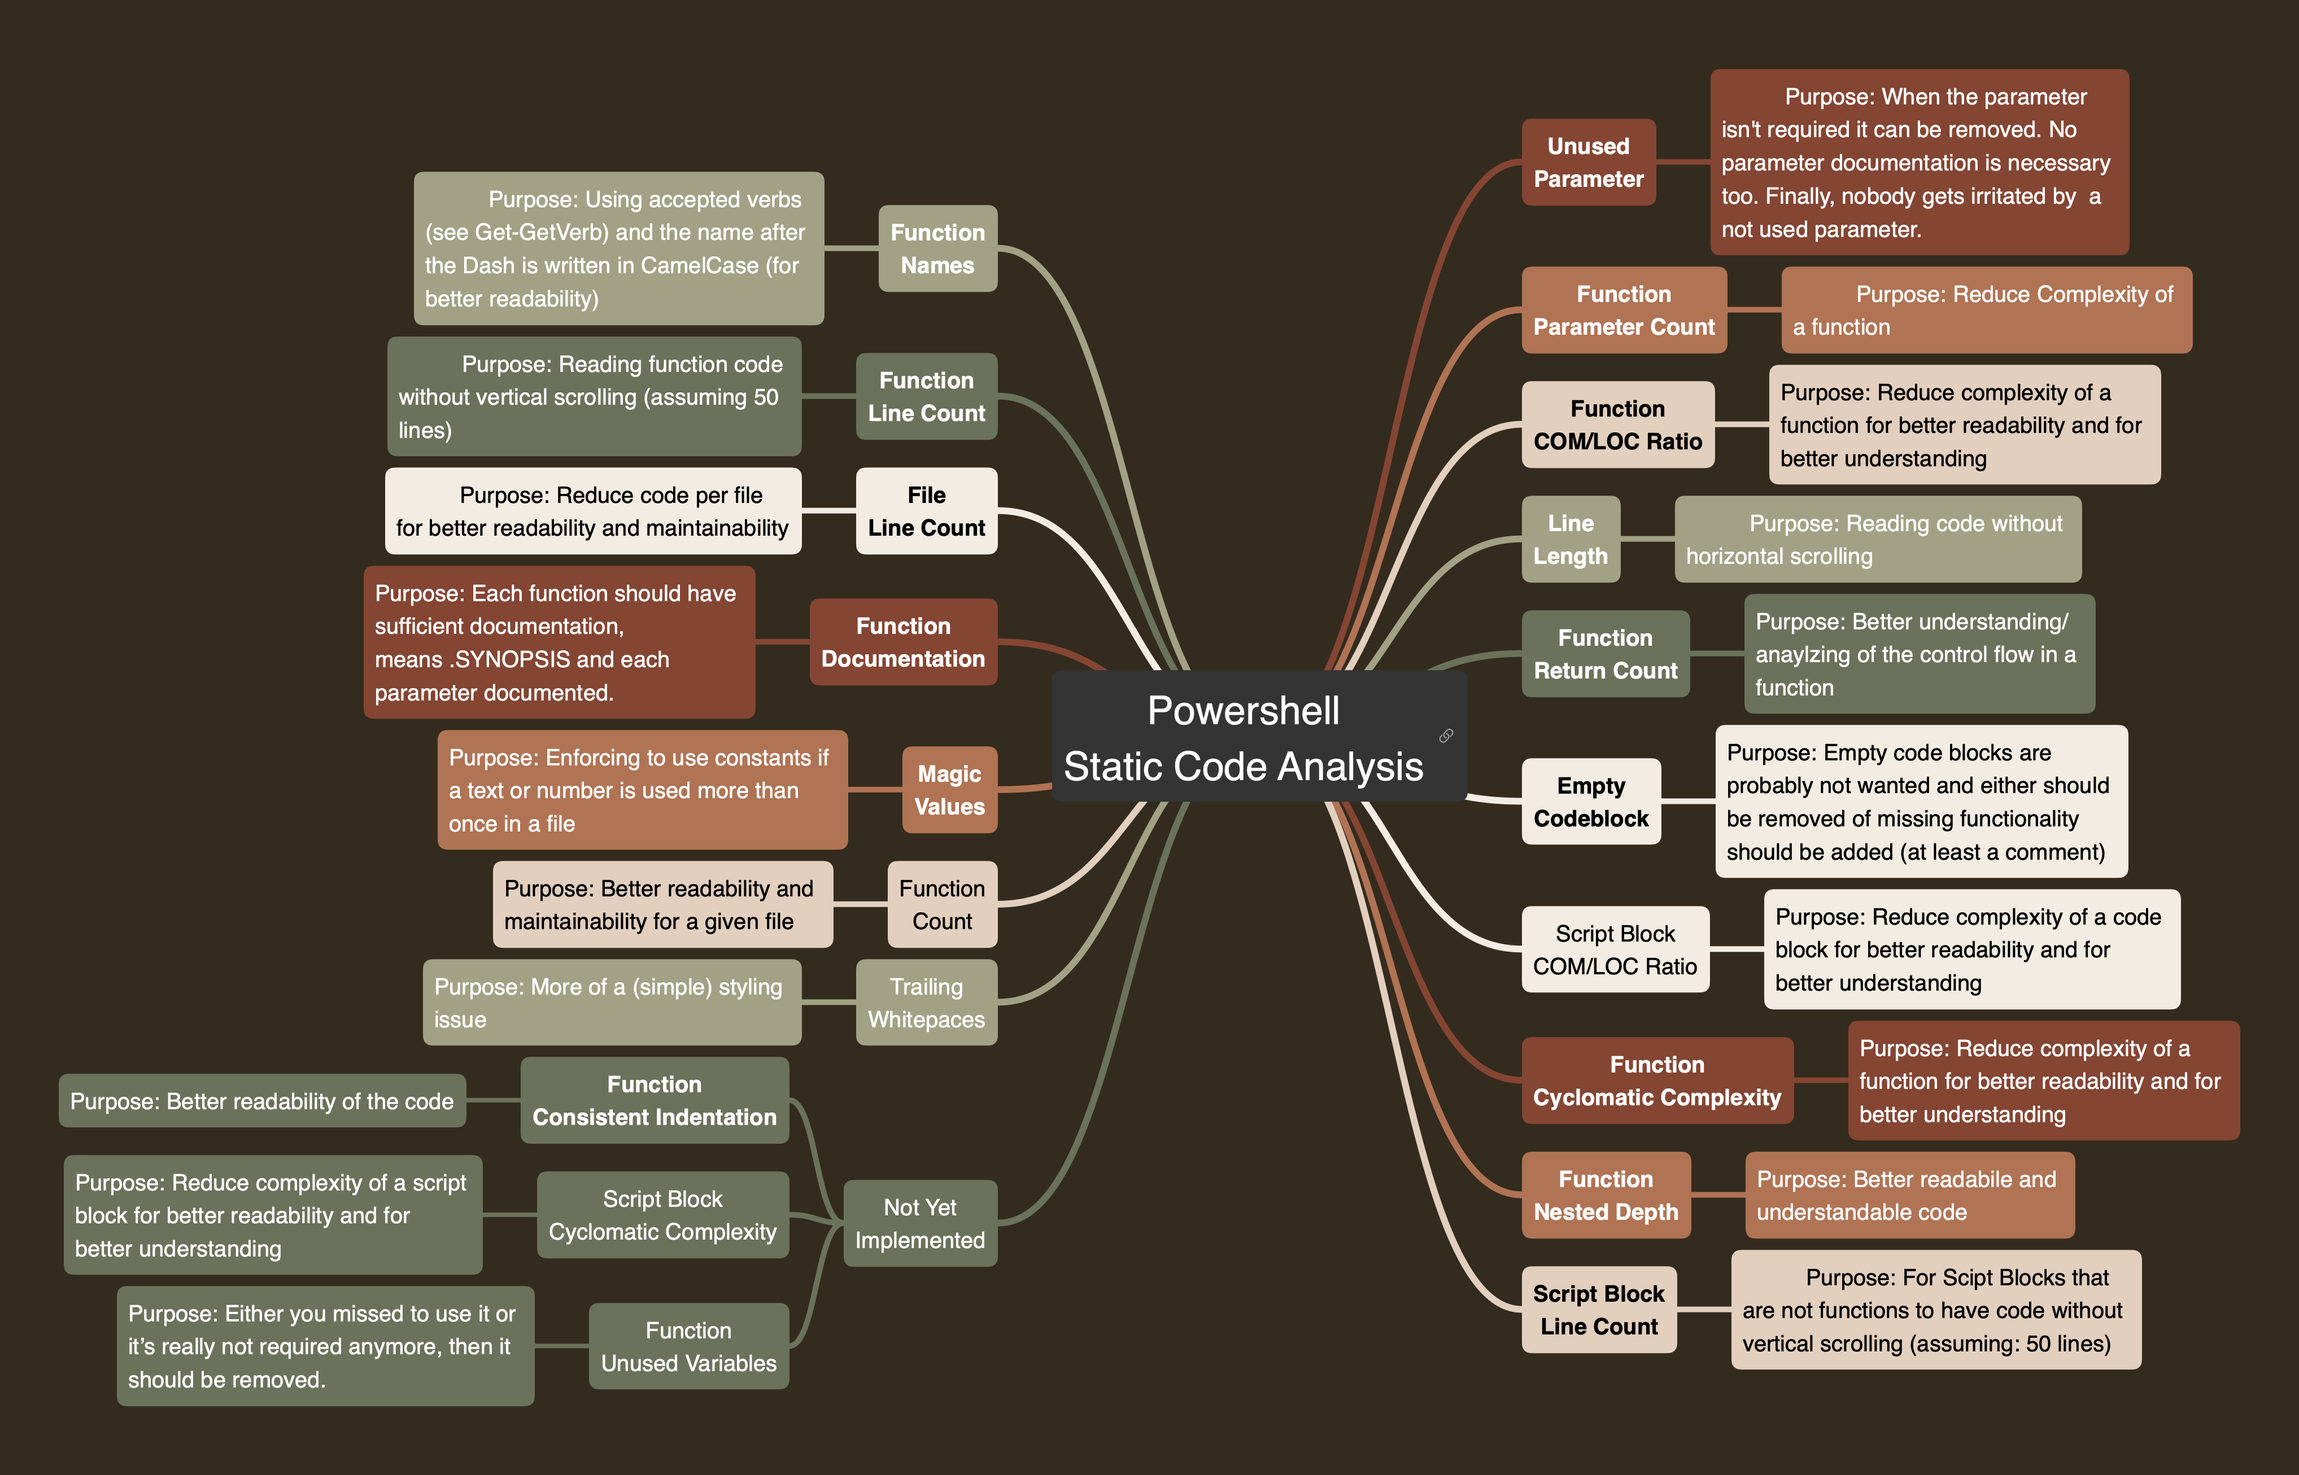
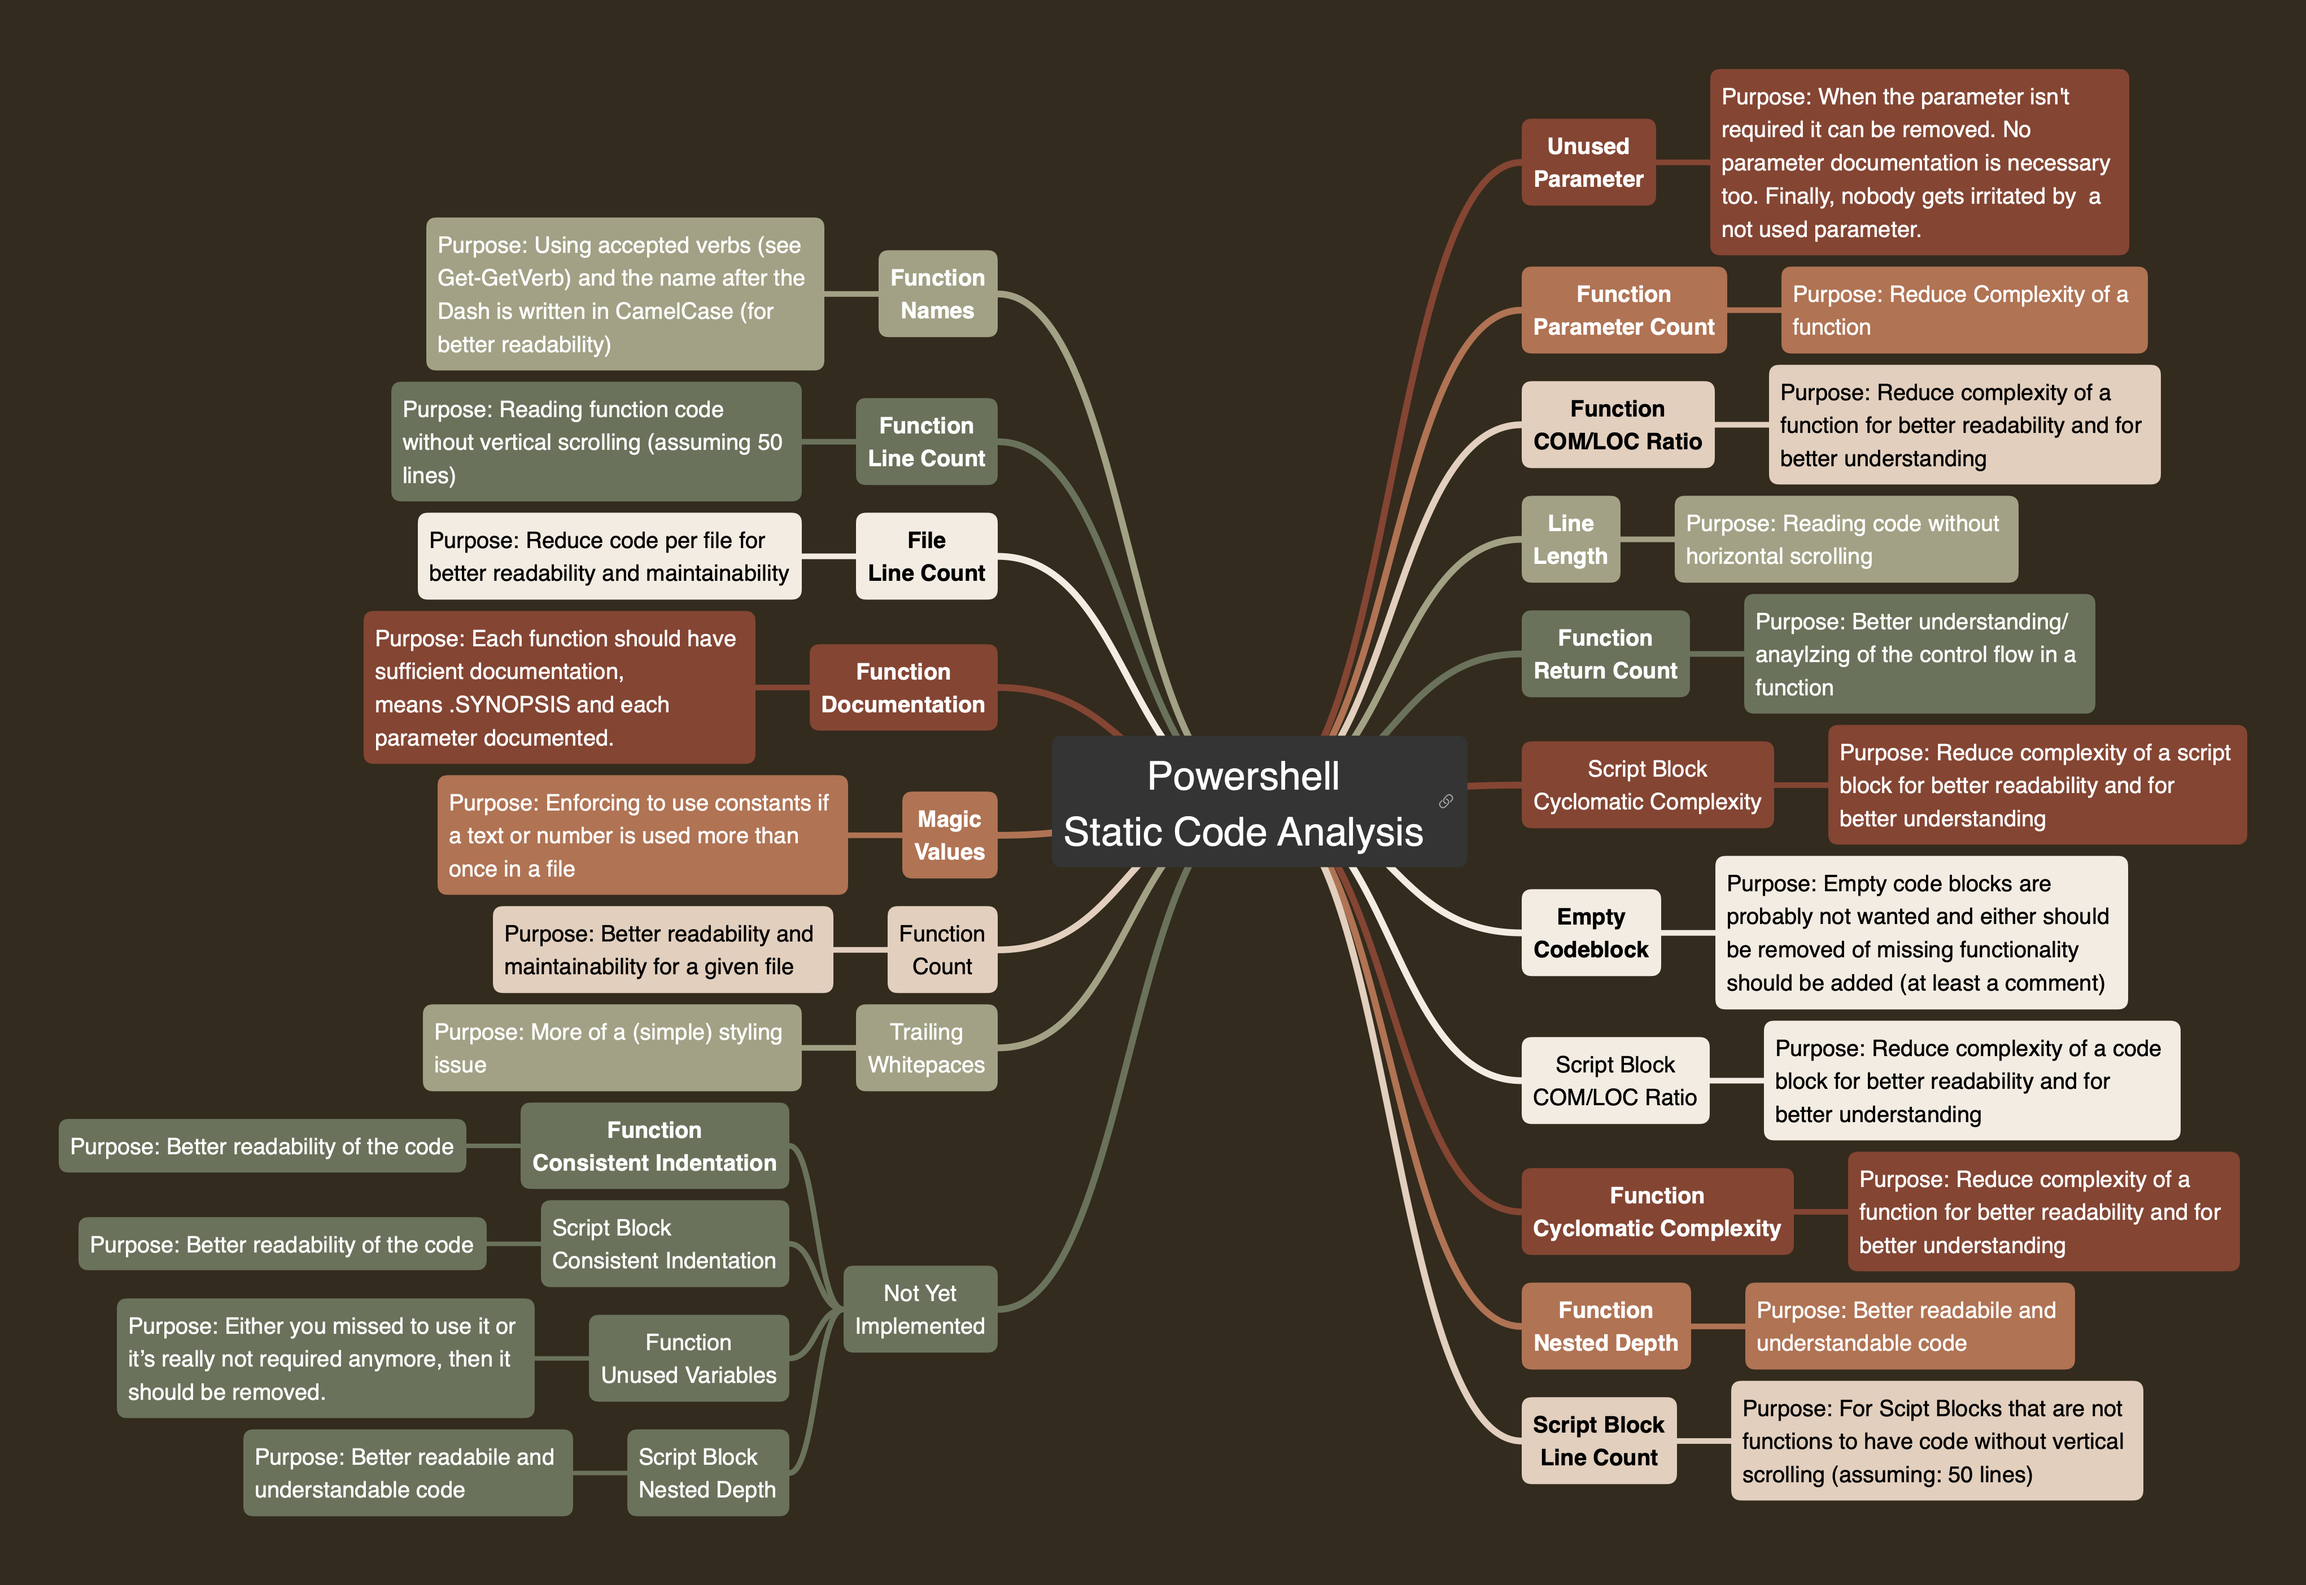
deploy: b2dde4d0823b892bb1fc88203be099f79d95d960

Changed region(s): [[0.0, 0.031, 0.9983, 0.961], [0.4679, 0.713, 0.4991, 0.775]]

diff --git a/static-code-analysis/index.html b/static-code-analysis/index.html
@@ -508,6 +508,15 @@
 </li>
       
         <li class="md-nav__item">
+  <a href="#checking-for-script-block-cyclomatic-complexity" class="md-nav__link">
+    <span class="md-ellipsis">
+      Checking for script block cyclomatic complexity
+    </span>
+  </a>
+  
+</li>
+      
+        <li class="md-nav__item">
   <a href="#checking-for-script-block-comloc-ratio" class="md-nav__link">
     <span class="md-ellipsis">
       Checking for script block COM/LOC ratio
@@ -817,6 +826,15 @@
 </li>
       
         <li class="md-nav__item">
+  <a href="#checking-for-script-block-cyclomatic-complexity" class="md-nav__link">
+    <span class="md-ellipsis">
+      Checking for script block cyclomatic complexity
+    </span>
+  </a>
+  
+</li>
+      
+        <li class="md-nav__item">
   <a href="#checking-for-script-block-comloc-ratio" class="md-nav__link">
     <span class="md-ellipsis">
       Checking for script block COM/LOC ratio
@@ -1084,21 +1102,40 @@ You can change it like following:</p>
 <p>It does count <code>if</code>, <code>elseif</code>, <code>while</code> (with condition to enter loop), <code>for</code> (with condition),
 <code>switch</code> (cases with a break), <code>trap</code> statements and logical operators (and, or, xor). Each
 of them count one.</p>
-<h2 id="checking-for-script-block-comloc-ratio">Checking for script block COM/LOC ratio</h2>
-<p>The default ratio is 0.25 and default minimum lines are 3. You can change it like following:</p>
-<p><div class="language-powershell highlight"><pre><span></span><code><span id="__span-14-1"><a id="__codelineno-14-1" name="__codelineno-14-1" href="#__codelineno-14-1"></a><span class="nb">Initialize-AnalyseTask</span> <span class="p">{</span>
+<h2 id="checking-for-script-block-cyclomatic-complexity">Checking for script block cyclomatic complexity</h2>
+<p>The default is 10. You can change it like following:</p>
+<div class="language-powershell highlight"><pre><span></span><code><span id="__span-14-1"><a id="__codelineno-14-1" name="__codelineno-14-1" href="#__codelineno-14-1"></a><span class="nb">Initialize-AnalyseTask</span> <span class="p">{</span>
 </span><span id="__span-14-2"><a id="__codelineno-14-2" name="__codelineno-14-2" href="#__codelineno-14-2"></a>    <span class="k">param</span> <span class="p">(</span><span class="no">[hashtable]</span> <span class="nv">$TaskData</span><span class="p">)</span>
 </span><span id="__span-14-3"><a id="__codelineno-14-3" name="__codelineno-14-3" href="#__codelineno-14-3"></a>    <span class="nv">$TaskData</span><span class="p">.</span><span class="n">analyseConfiguration</span> <span class="p">=</span> <span class="p">@{</span>
 </span><span id="__span-14-4"><a id="__codelineno-14-4" name="__codelineno-14-4" href="#__codelineno-14-4"></a>        <span class="n">Global</span> <span class="p">=</span> <span class="p">@{</span>
 </span><span id="__span-14-5"><a id="__codelineno-14-5" name="__codelineno-14-5" href="#__codelineno-14-5"></a>            <span class="n">AnalyzePathAndFileNames</span> <span class="p">=</span> <span class="p">@(</span><span class="s1">&#39;./Invoke-Tasks.ps1&#39;</span><span class="p">)</span>
 </span><span id="__span-14-6"><a id="__codelineno-14-6" name="__codelineno-14-6" href="#__codelineno-14-6"></a>        <span class="p">}</span>
-</span><span id="__span-14-7"><a id="__codelineno-14-7" name="__codelineno-14-7" href="#__codelineno-14-7"></a>        <span class="n">AnalyzeScriptBlockComLocRatio</span> <span class="p">=</span> <span class="p">@{</span>
-</span><span id="__span-14-8"><a id="__codelineno-14-8" name="__codelineno-14-8" href="#__codelineno-14-8"></a>            <span class="n">Ratio</span> <span class="p">=</span> <span class="n">0</span><span class="p">.</span><span class="n">5</span>
-</span><span id="__span-14-9"><a id="__codelineno-14-9" name="__codelineno-14-9" href="#__codelineno-14-9"></a>            <span class="n">MinimumLines</span> <span class="p">=</span> <span class="n">5</span>
-</span><span id="__span-14-10"><a id="__codelineno-14-10" name="__codelineno-14-10" href="#__codelineno-14-10"></a>        <span class="p">}</span>
-</span><span id="__span-14-11"><a id="__codelineno-14-11" name="__codelineno-14-11" href="#__codelineno-14-11"></a>        <span class="c"># other settings</span>
-</span><span id="__span-14-12"><a id="__codelineno-14-12" name="__codelineno-14-12" href="#__codelineno-14-12"></a>    <span class="p">}</span>
-</span><span id="__span-14-13"><a id="__codelineno-14-13" name="__codelineno-14-13" href="#__codelineno-14-13"></a><span class="p">}</span>
+</span><span id="__span-14-7"><a id="__codelineno-14-7" name="__codelineno-14-7" href="#__codelineno-14-7"></a>        <span class="n">AnalyzeScriptBlockCyclomaticComplexity</span> <span class="p">=</span> <span class="p">@{</span>
+</span><span id="__span-14-8"><a id="__codelineno-14-8" name="__codelineno-14-8" href="#__codelineno-14-8"></a>            <span class="n">MaximumXomplexity</span> <span class="p">=</span> <span class="n">5</span>
+</span><span id="__span-14-9"><a id="__codelineno-14-9" name="__codelineno-14-9" href="#__codelineno-14-9"></a>        <span class="p">}</span>
+</span><span id="__span-14-10"><a id="__codelineno-14-10" name="__codelineno-14-10" href="#__codelineno-14-10"></a>        <span class="c"># other settings</span>
+</span><span id="__span-14-11"><a id="__codelineno-14-11" name="__codelineno-14-11" href="#__codelineno-14-11"></a>    <span class="p">}</span>
+</span><span id="__span-14-12"><a id="__codelineno-14-12" name="__codelineno-14-12" href="#__codelineno-14-12"></a><span class="p">}</span>
+</span></code></pre></div>
+<p>The severity is <code>warning</code>.</p>
+<p>It does count <code>if</code>, <code>elseif</code>, <code>while</code> (with condition to enter loop), <code>for</code> (with condition),
+<code>switch</code> (cases with a break), <code>trap</code> statements and logical operators (and, or, xor). Each
+of them count one.</p>
+<h2 id="checking-for-script-block-comloc-ratio">Checking for script block COM/LOC ratio</h2>
+<p>The default ratio is 0.25 and default minimum lines are 3. You can change it like following:</p>
+<p><div class="language-powershell highlight"><pre><span></span><code><span id="__span-15-1"><a id="__codelineno-15-1" name="__codelineno-15-1" href="#__codelineno-15-1"></a><span class="nb">Initialize-AnalyseTask</span> <span class="p">{</span>
+</span><span id="__span-15-2"><a id="__codelineno-15-2" name="__codelineno-15-2" href="#__codelineno-15-2"></a>    <span class="k">param</span> <span class="p">(</span><span class="no">[hashtable]</span> <span class="nv">$TaskData</span><span class="p">)</span>
+</span><span id="__span-15-3"><a id="__codelineno-15-3" name="__codelineno-15-3" href="#__codelineno-15-3"></a>    <span class="nv">$TaskData</span><span class="p">.</span><span class="n">analyseConfiguration</span> <span class="p">=</span> <span class="p">@{</span>
+</span><span id="__span-15-4"><a id="__codelineno-15-4" name="__codelineno-15-4" href="#__codelineno-15-4"></a>        <span class="n">Global</span> <span class="p">=</span> <span class="p">@{</span>
+</span><span id="__span-15-5"><a id="__codelineno-15-5" name="__codelineno-15-5" href="#__codelineno-15-5"></a>            <span class="n">AnalyzePathAndFileNames</span> <span class="p">=</span> <span class="p">@(</span><span class="s1">&#39;./Invoke-Tasks.ps1&#39;</span><span class="p">)</span>
+</span><span id="__span-15-6"><a id="__codelineno-15-6" name="__codelineno-15-6" href="#__codelineno-15-6"></a>        <span class="p">}</span>
+</span><span id="__span-15-7"><a id="__codelineno-15-7" name="__codelineno-15-7" href="#__codelineno-15-7"></a>        <span class="n">AnalyzeScriptBlockComLocRatio</span> <span class="p">=</span> <span class="p">@{</span>
+</span><span id="__span-15-8"><a id="__codelineno-15-8" name="__codelineno-15-8" href="#__codelineno-15-8"></a>            <span class="n">Ratio</span> <span class="p">=</span> <span class="n">0</span><span class="p">.</span><span class="n">5</span>
+</span><span id="__span-15-9"><a id="__codelineno-15-9" name="__codelineno-15-9" href="#__codelineno-15-9"></a>            <span class="n">MinimumLines</span> <span class="p">=</span> <span class="n">5</span>
+</span><span id="__span-15-10"><a id="__codelineno-15-10" name="__codelineno-15-10" href="#__codelineno-15-10"></a>        <span class="p">}</span>
+</span><span id="__span-15-11"><a id="__codelineno-15-11" name="__codelineno-15-11" href="#__codelineno-15-11"></a>        <span class="c"># other settings</span>
+</span><span id="__span-15-12"><a id="__codelineno-15-12" name="__codelineno-15-12" href="#__codelineno-15-12"></a>    <span class="p">}</span>
+</span><span id="__span-15-13"><a id="__codelineno-15-13" name="__codelineno-15-13" href="#__codelineno-15-13"></a><span class="p">}</span>
 </span></code></pre></div>
 The severity is <code>warning</code>. The behavior is pretty the same as for the function (see example there)</p>
 <h2 id="checking-for-empty-script-blocks">Checking for empty script blocks</h2>
